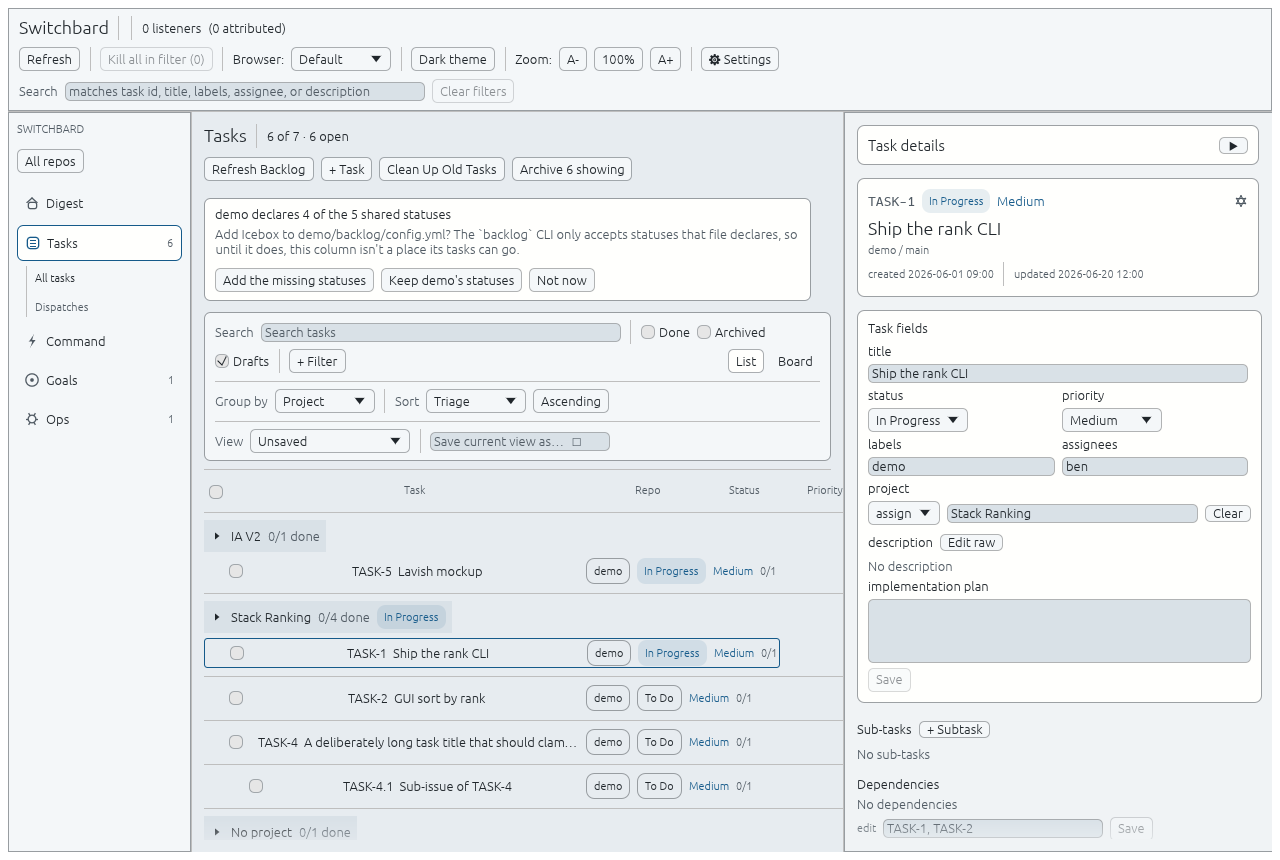
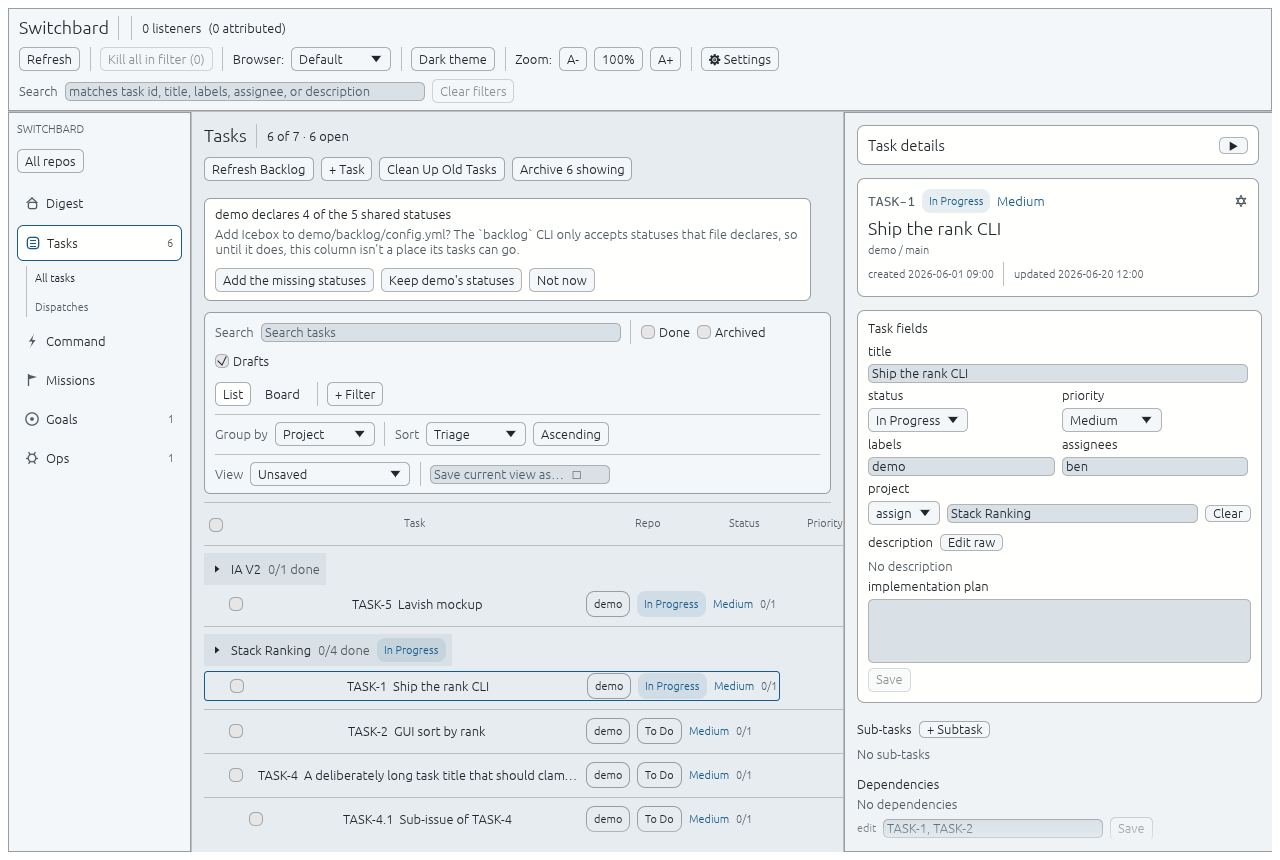
fix: keep Tasks filter controls horizontal

diff --git a/crates/switchbard-gui/src/ui/places/tasks/mod.rs b/crates/switchbard-gui/src/ui/places/tasks/mod.rs
@@ -199,8 +199,9 @@ fn render_empty(ui: &mut egui::Ui) {
     });
 }
 
-/// Row 1: free-text search, the filter builder + recent-filters row, and
-/// the List/Board segmented control.
+/// Row 1: free-text search and base visibility.
+/// Row 2: the List/Board selector, filter builder, active predicates, and
+/// recent filter sets.
 fn render_facets_row(app: &mut HiveApp, ui: &mut egui::Ui, filtered: &[TaskRow<'_>]) {
     ui.horizontal_wrapped(|ui| {
         filter_bar::search(ui, "tasks_place_search", app.filter_mut(), "Search tasks");
@@ -212,25 +213,30 @@ fn render_facets_row(app: &mut HiveApp, ui: &mut egui::Ui, filtered: &[TaskRow<'
         ui.checkbox(&mut app.backlog_view.show_completed, "Done");
         ui.checkbox(&mut app.backlog_view.show_archived, "Archived");
         ui.checkbox(&mut app.backlog_view.show_drafts, "Drafts");
+    });
+    ui.add_space(4.0);
+    ui.horizontal_wrapped(|ui| {
+        render_view_mode_selector(app, ui);
         ui.separator();
         filters::render(app, ui, filtered);
-        ui.with_layout(egui::Layout::right_to_left(egui::Align::Center), |ui| {
-            for (mode, label) in [
-                (TasksViewMode::Board, "Board"),
-                (TasksViewMode::List, "List"),
-            ] {
-                if ui
-                    .selectable_label(app.tasks_place.view_mode == mode, label)
-                    .clicked()
-                {
-                    app.tasks_place.view_mode = mode;
-                }
-            }
-        });
     });
 }
 
-/// Row 2: `Group by:` (List-only — a no-op combo shown disabled in Board
+fn render_view_mode_selector(app: &mut HiveApp, ui: &mut egui::Ui) {
+    for (mode, label) in [
+        (TasksViewMode::List, "List"),
+        (TasksViewMode::Board, "Board"),
+    ] {
+        if ui
+            .selectable_label(app.tasks_place.view_mode == mode, label)
+            .clicked()
+        {
+            app.tasks_place.view_mode = mode;
+        }
+    }
+}
+
+/// Row 3: `Group by:` (List-only, a no-op combo shown disabled in Board
 /// mode, since Board keeps its own status columns) and `Sort:`.
 fn render_group_sort_row(app: &mut HiveApp, ui: &mut egui::Ui) {
     ui.horizontal(|ui| {

diff --git a/crates/switchbard-gui/tests/tasks_place.rs b/crates/switchbard-gui/tests/tasks_place.rs
@@ -10,6 +10,7 @@ mod common;
 use std::path::PathBuf;
 
 use common::{harness, seeded_app, REPO_PATH};
+use eframe::egui;
 use egui_kittest::kittest::{NodeT, Queryable};
 use switchbard_core::config::FilterMemory;
 use switchbard_core::{
@@ -272,6 +273,35 @@ fn rank_sort_label_appears_only_in_the_sort_menu() {
 // ---------------------------------------------------------------------
 // Filter builder: add / remove / persist
 // ---------------------------------------------------------------------
+
+#[test]
+fn facets_controls_remain_horizontal_across_supported_widths() {
+    let mut bad = Vec::new();
+    for width in (600..=1400).step_by(25) {
+        let app = tasks_app(vec![task("TASK-1", "Visible task", "To Do")]);
+        let mut harness = harness(app);
+        harness.set_size(egui::vec2(width as f32, 548.0));
+        harness.run();
+
+        let filter = harness.get_by_label("+ Filter").rect();
+        let list = harness.get_by_label("List").rect();
+        let board = harness.get_by_label("Board").rect();
+        if filter.height() > 44.0
+            || filter.width() < 52.0
+            || list.width() < 36.0
+            || board.width() < 48.0
+            || filter.intersects(list)
+            || filter.intersects(board)
+            || list.intersects(board)
+        {
+            bad.push((width, filter, list, board));
+        }
+    }
+    assert!(
+        bad.is_empty(),
+        "facets controls collapsed or overlapped: {bad:?}"
+    );
+}
 
 #[test]
 fn adding_a_filter_predicate_narrows_the_visible_tasks() {

diff --git a/crates/switchbard-gui/src/ui/places/tasks/filters.rs b/crates/switchbard-gui/src/ui/places/tasks/filters.rs
@@ -30,7 +30,10 @@ pub(super) fn matches(row: &TaskRow<'_>, predicates: &[FilterPredicate]) -> bool
 pub(super) fn render(app: &mut HiveApp, ui: &mut egui::Ui, all_tasks: &[TaskRow<'_>]) {
     ui.horizontal_wrapped(|ui| {
         let popup_id = ui.make_persistent_id("tasks_place_filter_builder");
-        let button = ui.button("+ Filter");
+        let button = ui.add_sized(
+            [56.0, ui.spacing().interact_size.y],
+            egui::Button::new("+ Filter"),
+        );
         if button.clicked() {
             app.tasks_place.filter_builder_open = !app.tasks_place.filter_builder_open;
         }

diff --git a/crates/switchbard-gui/tests/qa_screenshots_tasks_place.rs b/crates/switchbard-gui/tests/qa_screenshots_tasks_place.rs
@@ -211,6 +211,16 @@ fn shots_for_theme(theme: ThemeChoice) {
         h.run();
         snapshot(&mut h, &format!("tasks_place_narrow{suffix}"));
     }
+
+    // Standard-width, short viewport: regression for the facets row that
+    // formerly collapsed "+ Filter" vertically and overlapped List/Board.
+    {
+        let app = app_with(theme);
+        let mut h = harness(app);
+        h.set_size(egui::vec2(1350.0, 548.0));
+        h.run();
+        snapshot(&mut h, &format!("tasks_place_facets_short{suffix}"));
+    }
 }
 
 #[test]
